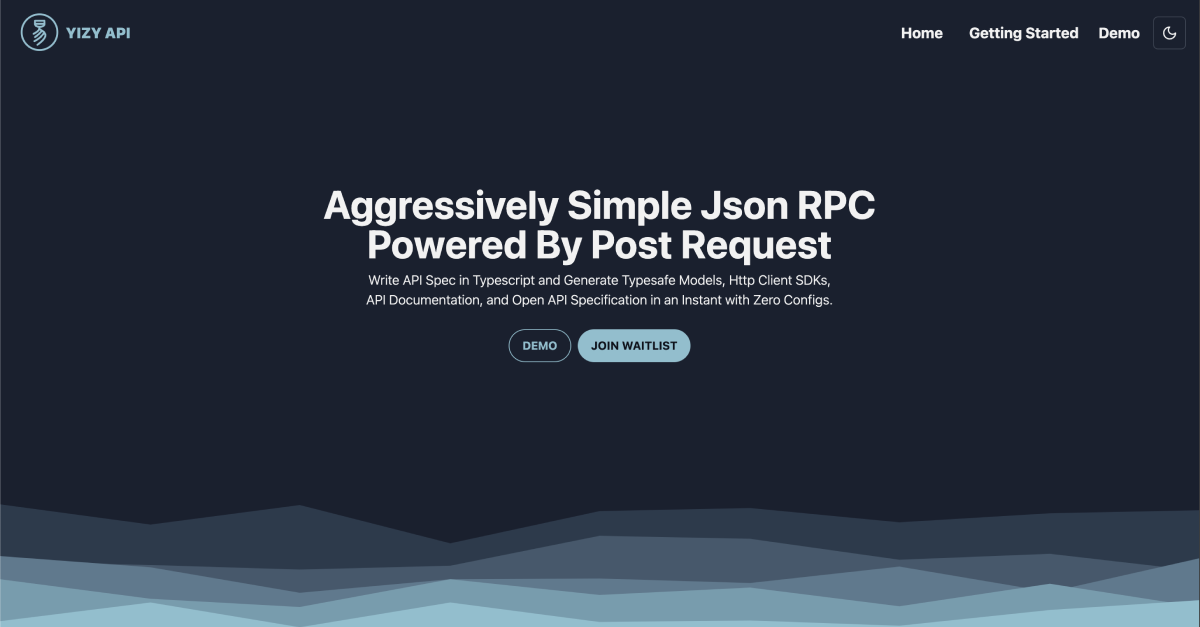
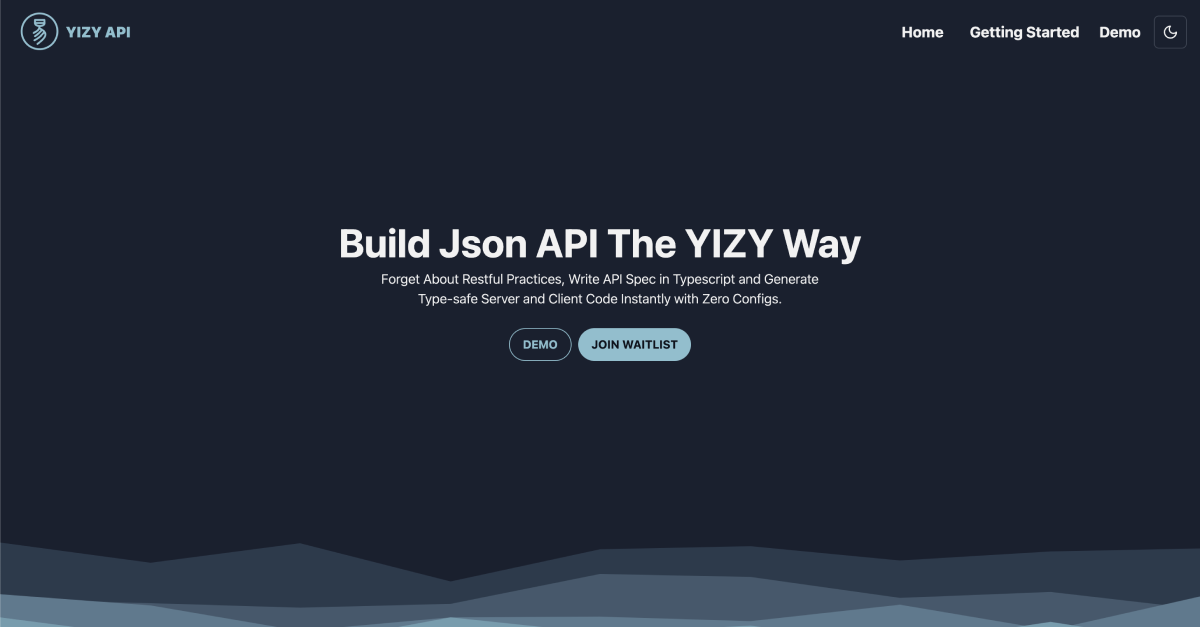
refactoring

diff --git a/src/routes/(doc)/doc/introduction/+page.svelte b/src/routes/(doc)/doc/introduction/+page.svelte
@@ -1,0 +1,85 @@
+<script lang="ts">
+	import * as Alert from '$lib/components/ui/alert/index.js';
+	//import HighlightCode from '$lib/components/ui/HighlightCode.svelte';
+	//import { shell } from 'svelte-highlight/languages/shell';
+	//import { typescript } from 'svelte-highlight/languages/typescript';
+	//import Label from '$lib/components/ui/label/label.svelte';
+	import TriangleAlert from 'lucide-svelte/icons/triangle-alert';
+
+	const ts = `typescript
+interface ExampleResponse {
+  error?: SomeNullableErrorType;
+  result?: SomeNullableResultType;
+}
+`;
+</script>
+
+<svelte:head>
+	<title>Introduction</title>
+</svelte:head>
+
+<div
+	class="prose prose-slate mx-auto w-full max-w-4xl px-4 pb-20 dark:prose-invert prose-a:text-primary"
+>
+	<Alert.Root class="my-4 border-destructive text-destructive">
+		<TriangleAlert class="h-4 w-4 stroke-destructive" />
+		<Alert.Title>Heads up!</Alert.Title>
+		<Alert.Description>
+			YIZY is still under active developement and is <b>NOT PRODUCTION READY</b>.
+		</Alert.Description>
+	</Alert.Root>
+	<h1>What is YIZY API?</h1>
+	<p>
+		YIZY API is an opinionated framework that helps you build Json API easily. You've probably heard
+		of Restful APIs, it's a set of rules that governs how your API should be built. YIZY API is also
+		a set of rules that governs how Json API should be built.
+	</p>
+	<p>
+		What makes an API 'Restful'? I get different answers talking to different engineers. When should
+		a server return a 404 Not Found and not a 200 OK with null in the response body? I am not sure.
+		What I do know is that in my experience, trying to follow Restful convension isn't as restful as
+		the name suggests, so I decided to built my own convention.
+	</p>
+
+	<h2>YIZY API Convention and Practices</h2>
+	<p>Let's start by violating restful practices 😈</p>
+
+	<p>A server following YIZY practices should:</p>
+	<ul>
+		<li>
+			Have a URL that contains a descriptive name of the action being perfomed by the endpoint
+			starting with a VERB. EX. '/getUserById'
+		</li>
+
+		<li>
+			Only accept POST request with body in Json format if body is required. This forces all
+			endpoints to have consistent input interfaces. No query param or path param is allowed.
+		</li>
+		<li>
+			Return 200 Status Code for Result and Expected Errors along with a Json body. All other
+			response status codes are considered exceptions. 'Expected Error' in this context is known
+			application level errors, an example of this would be when the requested result does not
+			exist, returning a null with an OK response. 'Exception' is for unexpected errors.
+		</li>
+		<li>Return Response that contains a nullable error object and an optional result object</li>
+		<li>Choose to process headers sent by clients as long as the response format is maintained</li>
+	</ul>
+
+	<h2>YIZY API Specification</h2>
+	<p>
+		Open API Spec is a very popular format for documenting 'Restful-ish' APIs, YIZY API also has its
+		own specification format called the YIZY API Spec. YIZY API Spec is a lean api specification
+		format following YIZY API conventions and practices. It's also a subset of Open API spec which
+		means it can be converted into an Open API Spec format easily. You can write an YIZY API Spec in
+		Typescript with code completion as well as Json and Yaml.
+	</p>
+
+	<h2>YIZY Code Generators</h2>
+	<p>
+		One of the most important benefit of having an API spec is that code can be generated to enforce
+		E2E type-safety across the server and the client. Traditional code generators usually requires
+		tedious installation and configuration to get up and running. YIZY API Code Generators takes a
+		different approach. Upload your spec and you will see generated code you can copy and paste into
+		your favorite editor with zero config!
+	</p>
+</div>

diff --git a/src/lib/yizySpec/generators/php/templates.ts b/src/lib/yizySpec/generators/php/templates.ts
@@ -14,19 +14,24 @@ class {{this.name}}
 }
 
 `;
-export const MODEL_FILE_TEMPLATE = `{{#each models}}` + MODEL_TEMPLATE + `{{/each}}`;
+export const MODEL_FILE_TEMPLATE = `<?php\n\n` + `{{#each models}}` +
+  MODEL_TEMPLATE +
+  `{{/each}}`;
 
 export const POST_REQUEST_FUNCTION_TEMPLATE = `
 /**
+ * @param headers string[]
  * @return {{returnType}} 
  */
-function {{functionName}}({{#if argType}}{{argType}} $req{{/if}}): object
+function {{functionName}}({{#if argType}}{{argType}} $req, {{/if}}$headers = []): object
 {
     $ch = curl_init();
 
     curl_setopt($ch, CURLOPT_URL, "{{postUrl}}");
     curl_setopt($ch, CURLOPT_POSTFIELDS, json_encode($req));
-    curl_setopt($ch, CURLOPT_HTTPHEADER, array('Content-Type:application/json'));
+    $defaultHeaders = array('Content-Type:application/json');
+    $allHeaders = array_merge($defaultHeaders, $headers);
+    curl_setopt($ch, CURLOPT_HTTPHEADER, $allHeaders);
     curl_setopt($ch, CURLOPT_RETURNTRANSFER, true);
 
     $res = curl_exec($ch);
@@ -38,27 +43,27 @@ function {{functionName}}({{#if argType}}{{argType}} $req{{/if}}): object
 `;
 
 export interface ModelFileTemplateInput {
-	models: ModelTemplateInput[];
+  models: ModelTemplateInput[];
 }
 
 export interface ModelTemplateInput {
-	name: string;
-	fields: FieldTemplateInput[];
+  name: string;
+  fields: FieldTemplateInput[];
 }
 
 export interface FieldTemplateInput {
-	name: string;
-	type: string;
-	phpDocType: string;
+  name: string;
+  type: string;
+  phpDocType: string;
 }
 
 export interface PostRequestFunctionTemplateInput {
-	returnType: string;
-	functionName: string;
-	argType: string;
-	postUrl: string;
+  returnType: string;
+  functionName: string;
+  argType: string;
+  postUrl: string;
 }
 
 export interface ClientSdkFileTemplateInput {
-	functions: PostRequestFunctionTemplateInput[];
+  functions: PostRequestFunctionTemplateInput[];
 }

diff --git a/src/routes/+page.svelte b/src/routes/+page.svelte
@@ -26,19 +26,18 @@
 <svelte:head>
 	<title>YIZY API</title>
 </svelte:head>
-<section class="mx-auto w-full py-20">
-	<div class="my-16 flex flex-col">
-		<h1 class="mx-auto px-4 text-center text-5xl font-bold">Aggressively Simple Json RPC</h1>
-		<h1 class="mx-auto px-4 text-center text-5xl font-bold">Powered By Post Request</h1>
+<section class="mx-auto w-full pb-20 pt-40">
+	<div class="my-28 flex flex-col">
+		<h1 class="mx-auto px-4 text-center text-5xl font-bold">Build Json API The YIZY Way</h1>
 		<h1 class="text-md mx-auto max-w-[600px] px-4 py-2 text-center font-light">
-			Write API Spec in Typescript and Generate Typesafe Models, Http Client SDKs, API
-			Documentation, and Open API Specification in an Instant with Zero Configs.
+			Forget About Restful Practices, Write API Spec in Typescript and Generate Type-safe Server and
+			Client Code Instantly with Zero Configs.
 		</h1>
 		<div class="my-4 flex flex-col">
 			<div class="mx-auto flex gap-2">
-				<a href="/demo"
+				<a href="/app"
 					><Button class="rounded-full border-primary font-bold text-primary" variant="outline"
-						>DEMO</Button
+						>TRY BETA</Button
 					></a
 				>
 
@@ -63,7 +62,7 @@
 						currentSelection = Selection.ts;
 					}}
 				>
-					1. Define Spec in Typescript
+					1. Write YIZY Spec
 				</button>
 				<button
 					class={jsonSelectBtnClass}

diff --git a/src/lib/yizySpec/generators/typescript/templates.ts b/src/lib/yizySpec/generators/typescript/templates.ts
@@ -1,10 +1,16 @@
 export const POST_REQUEST_FUNCTION_TEMPLATE = `
-export async function {{functionName}}({{#if argType}}req: {{argType}}{{/if}}): Promise<{{#if returnType}}{{returnType}}{{else}}void{{/if}}> {
+export async function {{functionName}}({{#if argType}}req: {{argType}}{{/if}}, headers?: Record<string, string> ): Promise<{{#if returnType}}{{returnType}}{{else}}void{{/if}}> {
+  let defaultHeaders = {
+    "Content-Type": "application/json",
+  };
+
+  if (headers) {
+    defaultHeaders = { ...defaultHeaders, ...headers };
+  }
+
   const response = await fetch( "{{postUrl}}", {
     method: 'POST',
-    headers: {
-      'Content-Type': 'application/json'
-    },
+    headers: defaultHeaders,
     {{#if argType}}
     body: JSON.stringify(req)
     {{/if}}

diff --git a/src/routes/(doc)/doc/getting-started/+page.svelte b/src/routes/(doc)/doc/getting-started/+page.svelte
@@ -45,7 +45,7 @@ export const secretService: Service = {
 };
 
 // Copy the output and paste it to the 
-// website at https://yizy.rootxsnowstudio.com/demo
+// website at https://yizy.rootxsnowstudio.com/app
 const output = JSON.stringify(secretService);
 `;
 </script>
@@ -90,7 +90,7 @@ const output = JSON.stringify(secretService);
 	<HighlightCode language={typescript} code={tsString}></HighlightCode>
 
 	<p>
-		Copy and paste the output to the <a href="https://yizy.rootxsnowstudio.com/demo">demo page</a>.
+		Copy and paste the output to the <a href="https://yizy.rootxsnowstudio.com/app">app page</a>.
 		That's it. It's that YIZY!
 	</p>
 </div>

diff --git a/src/routes/blogs/20240914/+page.svelte b/src/routes/blogs/20240914/+page.svelte
@@ -25,7 +25,7 @@ export interface ResponseObject {
 		and client SDK code right in the browser so you can see the result right away and copy the code
 		right into your editor without having to set up any tooling yourself. Salute to shadcn.
 	</p>
-	<a href="/demo" class="text-primary">Check out the Demo Page</a>
+	<a href="/app" class="text-primary">Check out the Beta Version</a>
 	<p>
 		The approach I am taking to simplify the spec aggressively is to only support POST requests and
 		standardize the response model regardless of the returned http status code. The response will

diff --git a/src/lib/components/ui/Navbar.svelte b/src/lib/components/ui/Navbar.svelte
@@ -14,12 +14,12 @@
 		<a href="/" class="mx-2 my-auto text-sm font-bold hover:text-primary sm:mx-4 sm:text-lg">Home</a
 		>
 		<a
-			href="/getting-started"
+			href="/doc/getting-started"
 			class="mx-2 my-auto text-center text-sm font-bold hover:text-primary sm:mx-4 sm:text-left sm:text-lg"
 			>Getting Started</a
 		>
-		<a href="/demo" class="mx-2 my-auto text-sm font-bold hover:text-primary sm:mr-4 sm:text-lg"
-			>Demo</a
+		<a href="/app" class="mx-2 my-auto text-sm font-bold hover:text-primary sm:mr-4 sm:text-lg"
+			>Web App</a
 		>
 		<DarkModeToggle />
 	</div>

diff --git a/src/routes/app/components/YIZYSpecTab.svelte b/src/routes/app/components/YIZYSpecTab.svelte
@@ -14,7 +14,7 @@
 					<Card.Title>YIZY API Spec</Card.Title>
 					<Card.Description>
 						Write API spec in Typescript with code completion then upload your json! Check the <a
-							href="/getting-started"
+							href="/doc/getting-started"
 							class="text-primary underline">getting started</a
 						> page on how to get started.
 					</Card.Description>

diff --git a/src/routes/app/+page.svelte b/src/routes/app/+page.svelte
@@ -25,12 +25,12 @@
 </script>
 
 <svelte:head>
-	<title>Demo</title>
+	<title>Web App</title>
 </svelte:head>
 
 <svelte:window on:resize={onScreenResize} />
 
-<div class="w-full pb-8">
+<div class="w-full pb-8 pt-24">
 	{#if isScreenTooSmall}
 		<Alert.Root class="my-4 border-destructive text-destructive">
 			<TriangleAlert class="h-4 w-4 stroke-destructive" />

diff --git a/src/routes/(doc)/+layout.svelte b/src/routes/(doc)/+layout.svelte
@@ -1,0 +1,13 @@
+<script>
+	import '../../app.css';
+	import Sidebar from './components/Sidebar.svelte';
+</script>
+
+<div class="hidden h-screen w-[300px] bg-secondary lg:fixed lg:block">
+	<Sidebar />
+</div>
+<div class="h-screen w-full">
+	<div class="px-2 pt-20 lg:ml-[300px]">
+		<slot></slot>
+	</div>
+</div>

diff --git a/src/routes/+layout.svelte b/src/routes/+layout.svelte
@@ -7,7 +7,11 @@
 
 <GoogleAnalytics />
 <ModeWatcher />
-<Navbar />
-<div class="w-full">
-	<slot></slot>
+<div>
+	<div class="fixed top-0 z-20 w-full border-b border-b-muted bg-background">
+		<Navbar />
+	</div>
+	<div class="h-screen w-full">
+		<slot></slot>
+	</div>
 </div>

diff --git a/src/routes/(doc)/components/Sidebar.svelte b/src/routes/(doc)/components/Sidebar.svelte
@@ -1,0 +1,6 @@
+<div class="mt-20 h-full overflow-y-auto pb-20">
+	<ul class="p-4">
+		<a href="/doc/introduction"><li class="hover:text-primary">Introduction</li></a>
+		<a href="/doc/getting-started"><li class="hover:text-primary">Getting Started</li></a>
+	</ul>
+</div>
